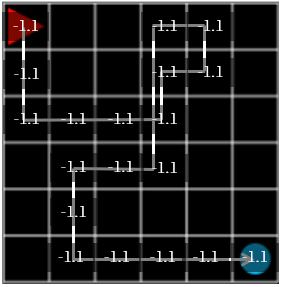
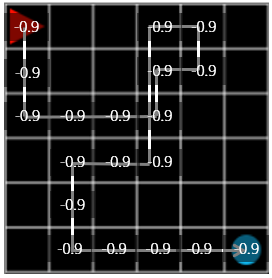
rl-first 오류 수정

Changed region(s): [[0.0, 0.0, 1.0, 1.0], [0.8235, 0.6331, 0.9706, 0.6906]]

diff --git a/kr/_posts/2019-02-12-reinforcement-learning-first.md b/kr/_posts/2019-02-12-reinforcement-learning-first.md
@@ -170,9 +170,9 @@ window.addEventListener('resize', function() {
 그리고 episode 를 반복하면서 격자가 가진 값을 업데이트 해줍니다. 어떻게 업데이트를 해야할까요? 1) 새로운 값으로 덮어씌우기, 2) 평균 취하기. 1번보다는 2번이 안정적으로 보입니다.
 
 ![](<../images/rl_3_5.png>)
-<small>그림 4. steps: 22, reward: -1.1</small>
+<small>그림 4. steps: 20, reward: -1.1</small>
 
-그림 4의 episode 에서 에이전트는 조금 더 헤매기는 했지만 목표를 찾는 데에 성공했습니다. 이때 최종 reward 는 각 step 마다 -0.1, 마지막에 목표에서 +1.0 을 받았기 때문에 $$-0.1 \times 21 + 1.0 = -1.1$$ 이 됩니다.
+그림 4의 episode 에서 에이전트는 조금 더 헤매기는 했지만 목표를 찾는 데에 성공했습니다. 이때 최종 reward 는 각 step 마다 -0.1, 마지막에 목표에서 +1.0 을 받았기 때문에 $$-0.1 \times 19 + 1.0 = -0.9$$ 가 됩니다.
 
 ![](<../images/rl_3_7.png>)
 <small>그림 5</small>
